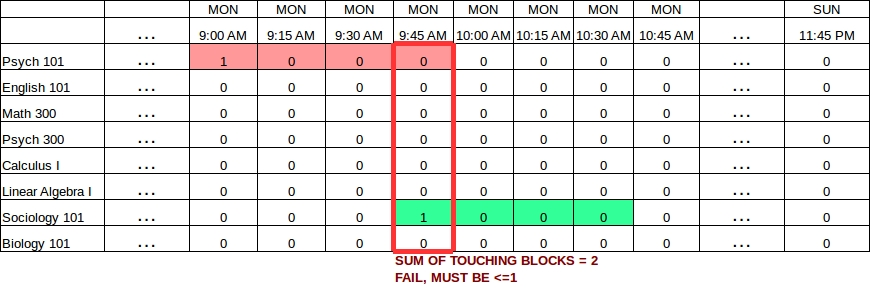
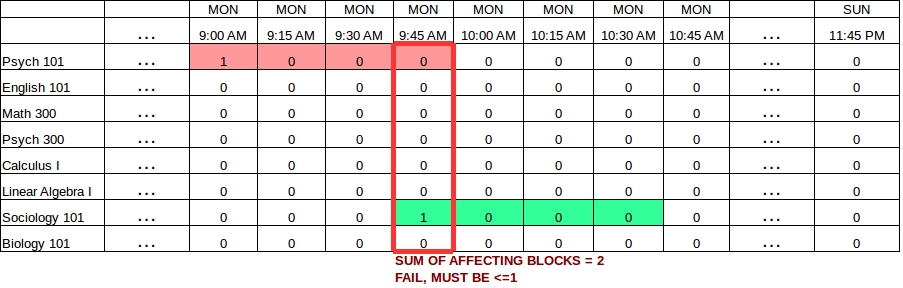
continue lp pt3 article

diff --git a/linear_programming_with_kotlin_part_iii/linear_programming_with_kotlin_part_iii.md b/linear_programming_with_kotlin_part_iii/linear_programming_with_kotlin_part_iii.md
@@ -1,19 +1,19 @@
 # Linear Programming with Kotlin Part III - Generating Multi-day Schedules
 
 
-In [Part I of this series](http://tomstechnicalblog.blogspot.com/2018/01/kotlinforoperationalplanningandoptimiza.html) I introduced binary programming with [Kotlin](http://kotlinlang.org/) and [ojAlgo](http://ojalgo.org/). In [Part II](http://tomstechnicalblog.blogspot.com/2018/01/kotlin-for-linear-programming-part-ii.html), I introduced continuous variables and optimization concepts. In this section, I am going to present something more ambitious and useful: generating mutli-day schedules. This can be applied to scheduling problems such as staffing, manufacturing, transportation, sport team event planning, and even classroom allocation.
+In [Part I of this series](http://tomstechnicalblog.blogspot.com/2018/01/kotlinforoperationalplanningandoptimiza.html) I introduced binary programming with [Kotlin](http://kotlinlang.org/) and [ojAlgo](http://ojalgo.org/). In [Part II](http://tomstechnicalblog.blogspot.com/2018/01/kotlin-for-linear-programming-part-ii.html), I introduced continuous variables and optimization concepts. In this section, I am going to present something more ambitious and useful: generating multi-day schedules. This can be applied to scheduling problems such as staffing, manufacturing, transportation, classroom allocation, and even sport event planning.
 
 I started building [okAlgo](https://github.com/thomasnield/okAlgo/blob/master/README.md) which contains Kotlin idiomatic extensions to ojAlgo. Hopefully I will get a chance to release this soon.
 
-It is one thing to create an app that allows you to input events into a calendar. It is another for it to automatically schedule the events for you. Rather than relying on iterative brute-force tactics to fit classes into a schedule (which can be hopelessly inefficent), we can achieve this magic one-click generation of a schedule using the power of mathematical modeling.
+It is one thing to create an app that allows you to input events into a calendar. It is another for it to automatically schedule the events for you. Rather than relying on iterative brute-force tactics to fit events into a schedule (which can be hopelessly inefficent), we can achieve magic one-click generation of a schedule using the power of mathematical modeling.
 
-In this article, we will generate a weekly university class schedule against one classroom. We will plot the occupation state grid on two dimensions: classes vs block time. If we wanted to schedule against multiple rooms, that would be three dimensions: classes vs block time vs room. We will stick with the former for now and do 2 dimensions. The latter will likely be the next article in this series.
+In this article, we will generate a weekly university class schedule against one classroom. We will plot the occupation state grid on two dimensions: classes vs timeline of 15-minute blocks. If we wanted to schedule against multiple rooms, that would be three dimensions: classes vs timeline vs room. We will stick with the former for now and do 2 dimensions. The latter will likely be another article in this series.
 
 >Before I start, I found a challenging but useful [Coursera class on discrete optimization](https://www.coursera.org/learn/discrete-optimization/). This class is fairly ambitious and I hope to find time to complete it. It goes into different techniques to build optimization models from scratch using Python, Java, or any other platform of your choice. So far I highly recommend this class if you want to commit 10-15 hours a week to this topic.
 
 ## The Problem
 
-You need a one-click application to schedule university classes against a single classroom. These classes have differing lengths and may "repeat" throughout the week. Here are the classes:
+You need a one-click application to schedule university classes against a single classroom. These classes have differing lengths and may "repeat" throughout the week:
 
 * Psych 101 (1 hour, 2 sessions/week)
 * English 101 (1.5 hours, 2 sessions/week)
@@ -34,7 +34,7 @@ The operating week is Monday through Friday. The operating day is as follows wit
 
 Classes must be scheduled within these times.
 
-Create a discrete programming model that schedules these classes with no overlap and complies with these requirements.
+**OBJECTIVE: Create a discrete programming model that schedules these classes with no overlap and complies with these requirements.**
 
 ## Laying the Groundwork
 
@@ -42,7 +42,7 @@ The _very_ first thing you should notice about this problem is how everything is
 
 ![](images/timeline_concept.jpg)
 
-Note that the "..."  is just a placeholder since we do not have enough room to display the 672 blocks for the week (672 = 7 days \* 24 hours \* 4 blocks in an hour).
+Note that the "..."  is just a collapsed placeholder since we do not have enough room to display the 672 blocks for the week (672 = 7 days \* 24 hours \* 4 blocks in an hour).
 
 Now let's expand this concept and make the classes an axis against the timeline. Each intersection is a "slot" that can be 1 or 0. This binary will serve to indicate whether or not that "slot" is the start time for the first recurrence of that class. We will set them all to 0 for now as shown below:
 
@@ -55,14 +55,18 @@ On the Kotlin side, let's get our infrastructure set up. First let's improvise a
 ```kotlin
 import org.ojalgo.optimisation.ExpressionsBasedModel
 import org.ojalgo.optimisation.Variable
+import java.util.concurrent.atomic.AtomicInteger
 
 // declare model
 val model = ExpressionsBasedModel()
 
+
+// improvised DSL
 val funcId = AtomicInteger(0)
 val variableId = AtomicInteger(0)
 fun variable() = Variable(variableId.incrementAndGet().toString().let { "Variable$it" }).apply(model::addVariable)
 fun addExpression() = funcId.incrementAndGet().let { "Func$it"}.let { model.addExpression(it) }
+
 ```
 
 We are going to take advantage of Java 8's great LocalDate/LocalTime API to make calendar work easier. Let's set up our core parameters like so:
@@ -102,7 +106,7 @@ data class ScheduledClass(val id: Int,
                           val repetitionGapDays: Int = 2)
 ```
 
-The `repetitionGapDays` is the minimum number of days need between each recurrence's start time. For instance, since `Psych 100` requires 2 repetitions and defaults to a 2 day gap, if the first class was on MONDAY at 8AM then the second repetition must be scheduled at least 2 days (48 hours) later, which is WEDNESDAY at 8AM. All classes will default to a 2-day gap.
+The `repetitionGapDays` is the minimum number of days needed between each recurrence's start time. For instance, since `Psych 100` requires 2 repetitions and defaults to a 2 day gap, if the first class was on MONDAY at 8AM then the second repetition must be scheduled at least 2 days (48 hours) later, which is WEDNESDAY at 8AM. All classes will default to a 2-day gap.
 
 The `Block` class will represent each discrete 15-minute time period. We will use a Kotlin `Sequence` in combination with Java 8's `LocalDate/LocalTime` API to generate all of them for the entire planning window. We will also create a few helper properties to extract the `timeRange` as well as whether it is `withinOperatingDay`. The `withinOperatingDay` property will proactively determine if this `Block` is within an operating day.
 
@@ -114,9 +118,10 @@ data class Block(val dateTimeRange: ClosedRange<LocalDateTime>) {
      it.start.toLocalTime()..it.endInclusive.toLocalTime()
   }
 
-  val withinOperatingDay get() =
-      breaks.all { timeRange.start !in it } && timeRange.start in operatingDay
-
+  /** indicates if this block is zeroed due to operating day/break constraints */
+  val withinOperatingDay get() =  breaks.all { timeRange.start !in it } &&
+          timeRange.start in operatingDay &&
+          timeRange.endInclusive in operatingDay
 
     companion object {
 
@@ -138,12 +143,8 @@ Note I am going to initialize items for each domain object using a  [`lazy { }` 
 Finally, the `Slot` class will represent an intersection between a `ScheduledClass` and a `Block`. We will generate all of them by pairing every `ScheduledClass` with every `Block`. We will also create a `binary()` ojAlgo variable which will be fixed to `0` if the `Block` is not within the operating day.
 
 ```kotlin
-data class Slot(val block: Block, val session: ScheduledClass) {
-    val occupied = variable().binary()
-
-    init {
-      if (!block.withinOperatingDay) occupied.level(0)
-    }
+data class Slot(val block: Block, val scheduledClass: ScheduledClass) {
+    val occupied = variable().apply { if (block.withinOperatingDay) binary() else level(0) }
 
     companion object {
 
@@ -162,24 +163,98 @@ In the first [article in this series](http://tomstechnicalblog.blogspot.com/2018
 
 But I like things to remain free and open-source where possible, so I concentrated hard and came up with a better mathematical model. It is highly abstract but powerful and effective for this particular problem.
 
-We are going to label each `Slot` as `1` or `0` *to indicate the start of the first class repetition*. Here is one possible iteration the solver may come up with, where the first Psych 101 class starts on MON 9:00AM and Sociology 101 starts on MON 9:45AM. Here it is on our grid:
+Again, we are going to label each `Slot` as `1` or `0` *to indicate the start of the first class repetition*. Here is one possible iteration the solver may come up with, where the first Psych 101 class starts on MON 9:00AM and Sociology 101 starts on MON 9:45AM. Here it is on our grid:
 
 ![](images/timeline_concept_fail.jpg)
 
 Study this scenario closely. Do you see a pattern for an invalid case? In the MON 9:45AM block, Psych 101 (which requires four blocks) and Sociology 101 (which also requires four blocks) are in conflict with each other. Visually, you might be able to see the conflict. But how do you describe it?
 
-The sum of scheduled class blocks that "touch" the 9:45AM block must be less than or equal to 1. A sum of `1` effectively means only one class is taking up that block, and `0` means no classes are occupying that block at all (also valid). This particular case fails because the sum of "touching" blocks is 2.
+The sum of scheduled class blocks that "affect" the 9:45AM block must be less than or equal to 1. A sum of `1` effectively means only one class is taking up that block, and `0` means no classes are occupying that block at all (also valid). This particular case fails because the sum of "affecting" blocks is 2.
 
 If we shifted Sociology 101 to 10:00AM, the sum would then be `1` and all is good.
 
 ![](images/timeline_concept_success.jpg)
 
-We need to apply this logic to every block across the entire timeline, querying for earlier slots for each class that impact each block, and dictate their sum must be no greater than 1. This abstract but powerful idea achieves everything we need. Here is what this looks like in practice below, where all slots affecting the 9:45AM block are highlighted in blue. All of these blue blocks must sum to no more than 1.
+We need to apply this logic to every block across the entire timeline, querying for earlier slots for each class that occupy this block, and dictate their sum must be no greater than 1. This abstract but powerful idea achieves everything we need. Here is what this looks like in practice below, where all slots affecting the 9:45AM block are highlighted in blue. All of these blue blocks must sum to no more than 1.
 
 ![](images/timeline_concept_coverage1.jpg)
 
-This can even account for the recurrences too. After all, We put a `1` in a slot to indicate the candidate start time _of the first class_. If we were looking at the 9:45AM block on Friday, we would query for time slots earlier in the week that would result in the 9:45AM block being occupied. Here is a wide visual below. The sum of these blue slots must be no greater than 1. 
+This can even account for the recurrences too. After all, We put a `1` in a slot to indicate the candidate start time _of the first class_. If we were looking at the 9:45AM block on Friday, we would query for time slots earlier in the week that would result in the 9:45AM block being occupied. Here is a wide visual below. The sum of these blue slots must be no greater than 1.
 
 ![](images/timeline_concept_coverage3.jpg)
 
-Okay is your head spinning yet? The power of this model is not so much the math, but the ability for each block to query the slots that impact it. That is where the hard work will happen, and Kotlin's stdlib can nail this effectively. We then dictate the sum of those slots must not be greater than 1. The benefit is we do not have create any new variables, and can constrain the existing slot binary variables with a series of sum constraints.
+Okay is your head spinning yet? The power of this model is not so much the math, but the ability for each block to query the slots that impact it and mandate they must sum to no more than 1. That is where the hard work will happen, and Kotlin's stdlib can nail this effectively. The benefit is we do not have create any new variables, and can constrain the existing slot binary variables with a series of sum constraints.
+
+
+## Extracting Recurrences and Affected Slots
+
+Wrangling and transforming data is tedious, and it is the unglamorous part of data science where 90% of the work occurs. It is for this reason Python has rapidly stood toe-to-toe with R, but I think Kotlin can do even better than Python with its extensibility, type-safety, and higher-order functions.
+
+What we need to do first is identify the "groups" of slots for each class, and by "group" I mean an entire set of recurrences across the week. The star of this codebase is is going to be this Kotlin extension function, which will accomplish just that.
+
+```kotlin
+fun <T> List<T>.rollingRecurrences(slotsNeeded: Int, gap: Int, recurrences: Int) =
+        (0..size).asSequence().map { i ->
+            (1..recurrences).asSequence().map { (it - 1) * gap }
+                    .filter { it + i < size}
+                    .map { r ->
+                        subList(i + r, (i + r + slotsNeeded).let { if (it > size) size else it })
+                    }.filter { it.size == slotsNeeded }
+                    .toList()
+        }.filter { it.size == recurrences }
+```
+
+I will let you dive deep into the implementation on your own later. For now it is more productive to cover what it accomplishes: taking any `List<T>` and doing a specialized `windowed()` operation that injects a `gap` between each grouping. Note the `gap` is the number of items between each start of the window. For instance, we can take the numbers 1..20 and break them up in groups of 4, with a gap of 6 between each recurrence start, and have 3 recurrences.
+
+```kotlin
+fun main(args: Array<String>) {
+
+    (1..20).toList().rollingRecurrences(slotsNeeded = 4, gap = 6, recurrences = 3)
+            .forEach { println(it) }
+}
+```
+
+**OUTPUT:**
+```
+[[1, 2, 3, 4], [7, 8, 9, 10], [13, 14, 15, 16]]
+[[2, 3, 4, 5], [8, 9, 10, 11], [14, 15, 16, 17]]
+[[3, 4, 5, 6], [9, 10, 11, 12], [15, 16, 17, 18]]
+[[4, 5, 6, 7], [10, 11, 12, 13], [16, 17, 18, 19]]
+[[5, 6, 7, 8], [11, 12, 13, 14], [17, 18, 19, 20]]
+```
+
+We can use this extension function to handle the class repetitions, and generate all possible permutations within our time planning window of one week. We can then use that to find slots for a particular class that affect a particular block, as implemented with our `affectingSlotsFor()` function shown below. We will also set our constraints dictating
+
+```kotlin
+data class ScheduledClass(val id: Int,
+                          val name: String,
+                          val hoursLength: Double,
+                          val repetitions: Int,
+                          val repetitionGapDays: Int = 2) {
+
+    /** the # of slots between each recurrence */
+    val gapLengthInSlots = repetitionGapDays * 24 * 4
+
+    /** the # of slots needed for a given occurrence */
+    val slotsNeeded = (hoursLength * 4).toInt()
+
+    /** yields slots for this given scheduled class */
+    val slots by lazy {
+        Slot.all.asSequence().filter { it.scheduledClass == this }.toList()
+    }
+
+    /** yields slot groups for this scheduled class */
+    val slotGroups by lazy {
+        slots.rollingRecurrences(slotsNeeded = slotsNeeded, gap = gapLengthInSlots, recurrences = repetitions)
+    }
+
+    /** yields slots that affect the given block for this scheduled class */
+    fun anchorOverlapFor(block: Block) = slotGroups.asSequence()
+            .filter { it.flatMap { it }.any { it.block == block } }
+            .map { it.first().first() }
+
+    companion object {
+        val all by lazy { scheduledClasses }
+    }
+}
+```
